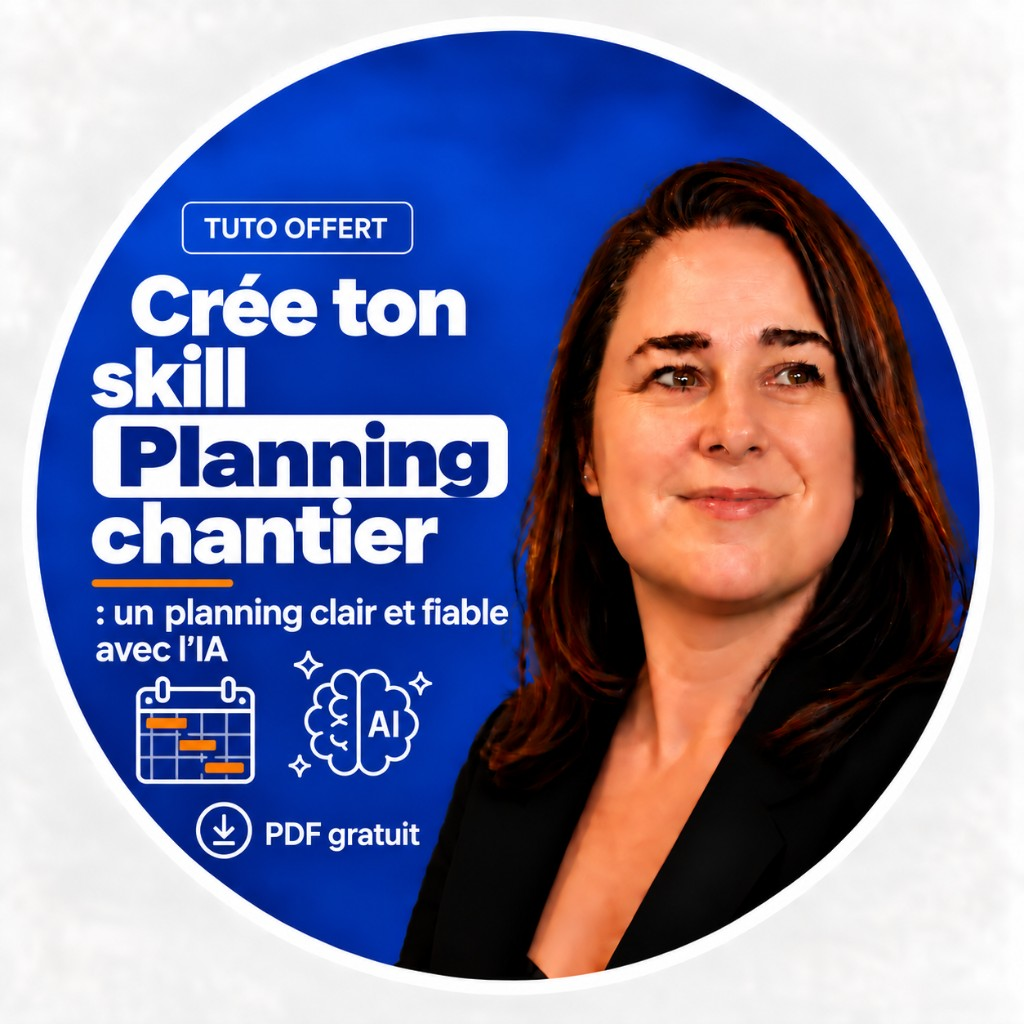
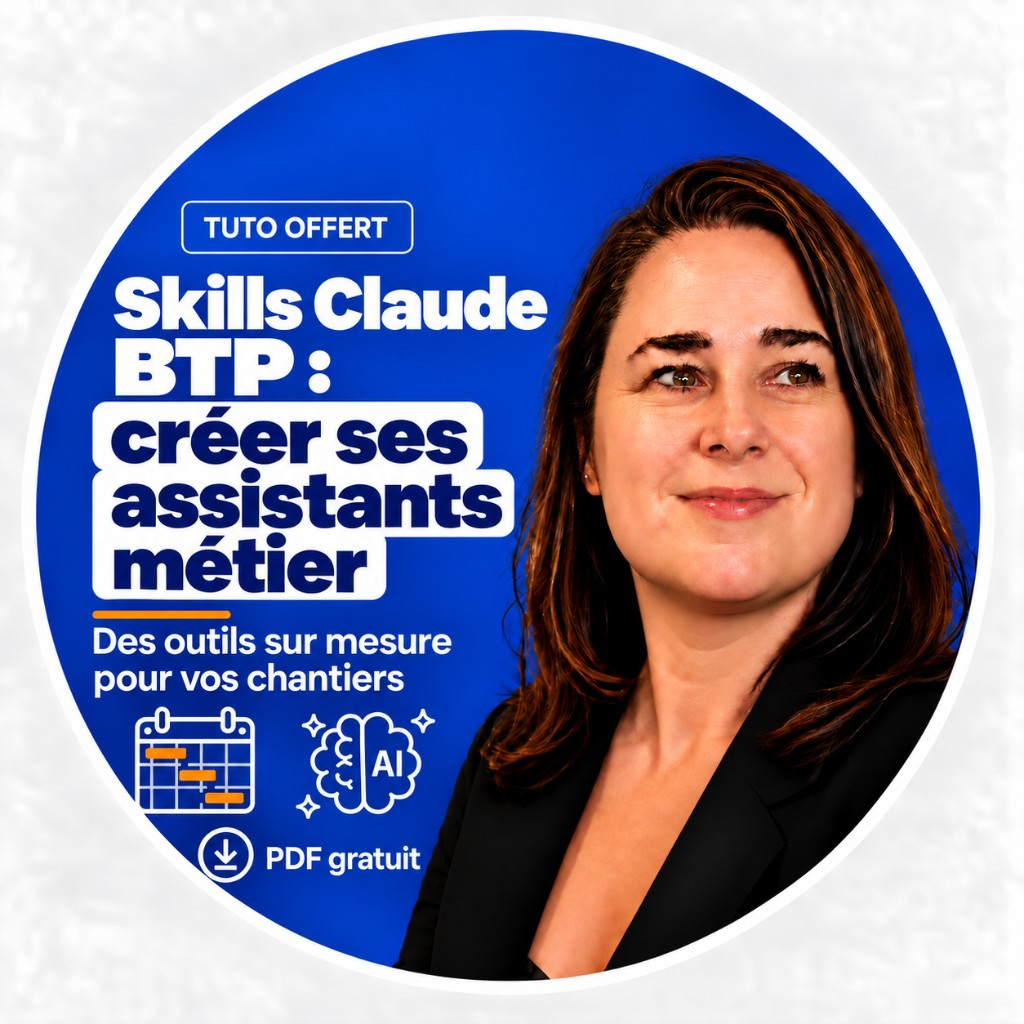
Actualise les miniatures Skills, compacte le hero accueil et complète le sitemap.
Visuels tuto Claude/ChatGPT alignés sur la charte ; logos partenaires intégrés au fold ; routes statiques core au sitemap ; liens legacy normalisés dans les articles générés.

diff --git a/components/landing/AccueilHeroSection.tsx b/components/landing/AccueilHeroSection.tsx
@@ -1,5 +1,6 @@
 import Link from 'next/link';
 import { AccueilHeroVideo } from '@/components/landing/AccueilHeroVideo';
+import { AccueilPreuveSocialeCompact } from '@/components/landing/accueil/AccueilPreuveSocialeCompact';
 import { Badge } from '@/components/ui/Badge';
 import { getAccueilHeroModalitesLine } from '@/lib/accueil-config';
 import { CTA_RDV_LABEL } from '@/lib/cta-rdv-label';
@@ -11,38 +12,38 @@ import {
 } from '@/lib/ofc-interaction-classes';
 import { OFC_SEC } from '@/lib/ofc-section-classes';
 
-/** Hero accueil — promesse claire, double CTA orientation, vidéo large. */
+/** Hero accueil — promesse claire, double CTA orientation, vidéo large, logos dans le fold. */
 export function AccueilHeroSection() {
   return (
-    <section className={`${OFC_SEC.hero} relative overflow-hidden !py-6 md:!py-8 lg:!py-10`}>
+    <section className={`${OFC_SEC.hero} relative overflow-hidden !py-5 md:!py-6 lg:!py-7`}>
       <div className="relative mx-auto max-w-[80rem] px-4 sm:px-6 lg:px-8">
         <div className="accueil-hero-fold">
           <div className="accueil-hero-content order-1 min-w-0">
             <Badge>Formatrice IA spécialisée BTP</Badge>
-            <h1 className="mt-3 max-w-3xl font-display text-[clamp(1.5rem,1.15rem+1.35vw,2rem)] font-extrabold leading-[1.2] tracking-tight text-ofc-ink text-balance">
+            <h1 className="mt-2 max-w-3xl font-display text-[clamp(1.45rem,1.1rem+1.25vw,1.95rem)] font-extrabold leading-[1.18] tracking-tight text-ofc-ink text-balance">
               Formations IA pour les professionnels du BTP en Île-de-France
             </h1>
-            <p className={`${OFC_TYPE_LEAD} mt-3 max-w-xl text-base leading-[1.6] text-ofc-ink md:text-lg`}>
+            <p className={`${OFC_TYPE_LEAD} mt-2 max-w-xl text-[0.9375rem] leading-[1.55] text-ofc-ink md:text-base`}>
               Devis, DCE, appels d&apos;offres et suivi de chantier&nbsp;: utilisez ChatGPT et
               Claude sur vos documents réels.
             </p>
-            <div className="mt-5 flex flex-col gap-3 sm:flex-row sm:flex-wrap">
+            <div className="mt-4 flex flex-col gap-2.5 sm:flex-row sm:flex-wrap">
               <Link
                 href={LINKS.parcoursMetiers}
                 data-cta="parcours-metier"
-                className={`${OFC_CTA_PRIMARY} inline-flex min-h-11 w-full items-center justify-center px-6 py-3 sm:w-auto`}
+                className={`${OFC_CTA_PRIMARY} inline-flex min-h-11 w-full items-center justify-center px-5 py-2.5 text-sm sm:w-auto md:px-6 md:py-3 md:text-base`}
               >
                 Choisir mon parcours métier
               </Link>
               <Link
                 href={LINKS.formations}
                 data-cta="formations-ia"
-                className={`${OFC_CTA_SECONDARY} inline-flex min-h-11 w-full items-center justify-center px-6 py-3 sm:w-auto`}
+                className={`${OFC_CTA_SECONDARY} inline-flex min-h-11 w-full items-center justify-center px-5 py-2.5 text-sm sm:w-auto md:px-6 md:py-3 md:text-base`}
               >
                 Voir les formations IA
               </Link>
             </div>
-            <p className="mt-4 max-w-xl text-sm leading-relaxed text-ofc-ink-muted">
+            <p className="mt-3 max-w-xl text-xs leading-relaxed text-ofc-ink-muted md:text-sm">
               <Link
                 href={`${LINKS.prendreRdv}?src=accueil-hero`}
                 data-cta="rdv"
@@ -55,12 +56,14 @@ export function AccueilHeroSection() {
             </p>
           </div>
 
-          <aside className="accueil-hero-aside order-2 mt-6 w-full min-w-0 md:order-none md:mt-0">
-            <div className="overflow-hidden rounded-ofc-card bg-white p-1 shadow-ofc-sm ring-1 ring-ofc-border">
-              <AccueilHeroVideo className="aspect-[4/3] h-auto w-full rounded-[calc(var(--radius-ofc-card)-2px)] object-cover" />
+          <aside className="accueil-hero-aside order-2 mt-5 w-full min-w-0 md:order-none md:mt-0">
+            <div className="accueil-hero-aside-inner overflow-hidden rounded-ofc-card bg-white p-1 shadow-ofc-sm ring-1 ring-ofc-border">
+              <AccueilHeroVideo className="accueil-hero-video-media aspect-[4/3] h-auto w-full rounded-[calc(var(--radius-ofc-card)-2px)] object-cover" />
             </div>
           </aside>
         </div>
+
+        <AccueilPreuveSocialeCompact variant="embedded" />
       </div>
     </section>
   );

diff --git a/components/landing/accueil/AccueilPreuveSocialeCompact.tsx b/components/landing/accueil/AccueilPreuveSocialeCompact.tsx
@@ -4,18 +4,35 @@ import { Section } from '@/components/ui/Section';
 import { ACCUEIL_LOGOS_PARTENAIRES, getAccueilHeroReassuranceLine } from '@/lib/accueil-config';
 import { PARTNER_LOGO_BAND_CELL } from '@/lib/client-logos';
 
+type AccueilPreuveSocialeCompactProps = {
+  /** Intégré au hero (sans section séparée, logos plus compacts). */
+  variant?: 'section' | 'embedded';
+};
+
+const LOGO_CELL_EMBEDDED = 'relative h-10 w-[8.25rem] shrink-0 overflow-hidden md:h-11 md:w-[9rem]';
+
 /** Bande preuve sociale légère — logos monochromes, sans carousel inaccessible. */
-export function AccueilPreuveSocialeCompact() {
-  return (
-    <Section tone="white" aria-labelledby="accueil-preuve-sociale" className="!py-4 md:!py-5">
+export function AccueilPreuveSocialeCompact({ variant = 'section' }: AccueilPreuveSocialeCompactProps) {
+  const cellClass = variant === 'embedded' ? LOGO_CELL_EMBEDDED : PARTNER_LOGO_BAND_CELL.className;
+
+  const bandeau = (
+    <>
       <p
         id="accueil-preuve-sociale"
-        className="text-center font-display text-sm font-semibold tracking-tight text-ofc-ink-muted md:text-base"
+        className={
+          variant === 'embedded'
+            ? 'text-center font-display text-xs font-semibold tracking-tight text-ofc-ink-muted md:text-sm'
+            : 'text-center font-display text-sm font-semibold tracking-tight text-ofc-ink-muted md:text-base'
+        }
       >
         Ils me font confiance
       </p>
       <ul
-        className="mt-4 flex flex-wrap items-center justify-center gap-x-6 gap-y-4 md:mt-5 md:gap-x-10"
+        className={
+          variant === 'embedded'
+            ? 'mt-2 flex flex-wrap items-center justify-center gap-x-5 gap-y-3 md:mt-3 md:gap-x-8'
+            : 'mt-4 flex flex-wrap items-center justify-center gap-x-6 gap-y-4 md:mt-5 md:gap-x-10'
+        }
         aria-label="Logos partenaires et clients"
       >
         {ACCUEIL_LOGOS_PARTENAIRES.map((logo) => (
@@ -25,7 +42,7 @@ export function AccueilPreuveSocialeCompact() {
               title={logo.linkTitle ?? `Site officiel ${logo.name}`}
               className="group block rounded-lg focus-visible:outline focus-visible:outline-2 focus-visible:outline-offset-2 focus-visible:outline-[#377CF3]"
             >
-              <div className={`${PARTNER_LOGO_BAND_CELL.className} grayscale transition group-hover:grayscale-0`}>
+              <div className={`${cellClass} grayscale transition group-hover:grayscale-0`}>
                 <Image
                   src={logo.src}
                   alt={logo.alt}
@@ -40,6 +57,23 @@ export function AccueilPreuveSocialeCompact() {
           </li>
         ))}
       </ul>
+    </>
+  );
+
+  if (variant === 'embedded') {
+    return (
+      <div
+        className="accueil-hero-logos mt-5 border-t border-ofc-border/80 pt-4 md:mt-6 md:pt-5"
+        aria-labelledby="accueil-preuve-sociale"
+      >
+        {bandeau}
+      </div>
+    );
+  }
+
+  return (
+    <Section tone="white" aria-labelledby="accueil-preuve-sociale" className="!py-4 md:!py-5">
+      {bandeau}
       <p className="mx-auto mt-4 max-w-2xl text-center text-xs leading-relaxed text-ofc-ink-muted md:mt-5 md:text-sm">
         {getAccueilHeroReassuranceLine()}
       </p>

diff --git a/lib/blog.ts b/lib/blog.ts
@@ -1965,6 +1965,34 @@ export const BLOG_ARTICLES: BlogArticle[] = [
   },
 ];
 
+/** Anciennes URL RDV / liens legacy dans les JSON Media Machine — normalisés à la lecture. */
+function normalizeLegacyPathsInText(text: string): string {
+  return text
+    .replaceAll('/prendre-rendez-vous', LINKS.prendreRdv)
+    .replaceAll('/formation-ia-artisans-btp', LINKS.formationIaDirigeantPmeBtp);
+}
+
+function normalizeGeneratedArticleSections(
+  sections: BlogArticle['sections']
+): BlogArticle['sections'] {
+  return sections.map((section) => {
+    const { content, formationHref, ...rest } = section;
+    const next: BlogArticle['sections'][number] = { ...rest, content };
+
+    if (typeof content === 'string') {
+      next.content = normalizeLegacyPathsInText(content);
+    } else if (Array.isArray(content) && content.length > 0 && typeof content[0] === 'string') {
+      next.content = (content as string[]).map((line) => normalizeLegacyPathsInText(line));
+    }
+
+    if (formationHref) {
+      next.formationHref = normalizeLegacyPathsInText(formationHref);
+    }
+
+    return next;
+  });
+}
+
 function loadGeneratedArticles(): BlogArticle[] {
   const dir = join(process.cwd(), 'content', 'generated');
   if (!existsSync(dir)) return [];
@@ -1975,13 +2003,14 @@ function loadGeneratedArticles(): BlogArticle[] {
     return files.map((f) => {
       const raw = readFileSync(join(dir, f), 'utf-8');
       const a = JSON.parse(raw) as BlogArticle & { internalLinks?: unknown };
+      const sections = normalizeGeneratedArticleSections(a.sections ?? []);
       return {
         slug: a.slug,
         title: a.title,
-        description: a.description,
+        description: normalizeLegacyPathsInText(a.description),
         date: a.date,
         keywords: a.keywords ?? [],
-        sections: a.sections ?? [],
+        sections,
         relatedSlugs: a.relatedSlugs ?? [], ...(a.seoTitle ? { seoTitle: a.seoTitle } : {}), ...(a.dateModified ? { dateModified: a.dateModified } : {}), ...(a.faq?.length ? { faq: a.faq } : {}), ...(a.coverImage ? { coverImage: a.coverImage } : {}),
       };
     });

diff --git a/app/globals.css b/app/globals.css
@@ -283,14 +283,48 @@
     display: grid;
     grid-template-columns: minmax(0, 45fr) minmax(0, 55fr);
     gap: 1.25rem 1.75rem;
-    align-items: center;
+    align-items: start;
   }
 }
 
 @media (min-width: 1024px) {
   .accueil-hero-fold {
     gap: 1.5rem 2rem;
-    align-items: center;
+  }
+}
+
+/* Viewports bas (ex. 1366×768) : plafond optique sans recadrer le poster */
+/* Bandeau promo : une ligne sur viewports bas (fold accueil) */
+@media (max-height: 820px) {
+  .promo-offre-2027 > div {
+    padding-top: 0.375rem;
+    padding-bottom: 0.375rem;
+  }
+
+  .promo-offre-2027 p.min-w-0.text-sm.leading-snug {
+    display: none;
+  }
+}
+
+@media (min-width: 768px) and (max-height: 920px) {
+  .accueil-hero-aside-inner {
+    max-height: min(28vh, 240px);
+  }
+
+  .accueil-hero-aside-inner .accueil-hero-video-media,
+  .accueil-hero-aside-inner .aspect-\[4\/3\] {
+    max-height: min(28vh, 240px);
+    width: 100%;
+    height: auto;
+    aspect-ratio: 4 / 3;
+    object-fit: contain;
+  }
+
+  .accueil-hero-content .ofc-type-lead {
+    display: -webkit-box;
+    -webkit-line-clamp: 2;
+    -webkit-box-orient: vertical;
+    overflow: hidden;
   }
 }
 

diff --git a/app/sitemap.ts b/app/sitemap.ts
@@ -10,6 +10,7 @@ import {
   getSitemapDepartementPaths,
   getSitemapIaTaskPaths,
   getSitemapMetierLandingPaths,
+  SITEMAP_CORE_STATIC_PATHS,
 } from '@/lib/sitemap-public-routes';
 import {
   SITEMAP_FORMATION_CATALOG_PATHS,
@@ -209,6 +210,12 @@ export default async function sitemap(): Promise<MetadataRoute.Sitemap> {
     lastModified: resolveSitemapLastModified(path),
   }));
 
+  /** Hub formateurs, parcours métiers, intra… (source `SITEMAP_CORE_STATIC_PATHS`, dédupliqué avec tier1). */
+  const coreStatic: MetadataRoute.Sitemap = SITEMAP_CORE_STATIC_PATHS.map((path) => ({
+    url: path === '/' ? baseUrl : `${baseUrl}${path}`,
+    lastModified: resolveSitemapLastModified(path),
+  }));
+
   const formationCatalogPriority: MetadataRoute.Sitemap = SITEMAP_FORMATION_CATALOG_PATHS.map(
     (path) => ({
       url: `${baseUrl}${path}`,
@@ -251,6 +258,7 @@ export default async function sitemap(): Promise<MetadataRoute.Sitemap> {
 
   const merged = dedupeByUrl([
     ...tier1Static,
+    ...coreStatic,
     ...formationCatalogPriority,
     ...formationCatalog,
     ...iaTaskPages,

diff --git a/app/page.tsx b/app/page.tsx
@@ -1,7 +1,6 @@
 import type { Metadata } from 'next';
 import { preload } from 'react-dom';
 import { AccueilHeroSection } from '@/components/landing/AccueilHeroSection';
-import { AccueilPreuveSocialeCompact } from '@/components/landing/accueil/AccueilPreuveSocialeCompact';
 import { AccueilOffreCatalogueSection } from '@/components/landing/accueil/AccueilOffreCatalogueSection';
 import { AccueilMethodeResultatsSection } from '@/components/landing/accueil/AccueilMethodeResultatsSection';
 import { AccueilFinancementSection } from '@/components/landing/accueil/AccueilFinancementSection';
@@ -82,7 +81,6 @@ export default function HomePage() {
   return (
     <div>
       <AccueilHeroSection />
-      <AccueilPreuveSocialeCompact />
       <AccueilOffreCatalogueSection />
       <EvenementAoBtpPromoEncart placement="accueil" />
       <AccueilMethodeResultatsSection />

diff --git a/lib/ressources-miniatures.ts b/lib/ressources-miniatures.ts
@@ -33,15 +33,15 @@ export const RESSOURCES_MINIATURES = {
   },
   skillsClaudeBtp: {
     src: `${BASE}/miniature-skills-claude-btp.jpg`,
-    alt: 'Laure Olivié — 5 skills Claude gratuits pour le BTP, tuto offert formation IA',
+    alt: 'Tuto offert Skills Claude BTP — créer ses assistants métier, PDF gratuit formation IA bâtiment',
     width: 1024,
     height: 1024,
   },
   skillsChatgptBtp: {
     src: '/images/tutoriel-skills-chatgpt-btp-laure-olivie.webp',
-    alt: 'Tutoriel Skills ChatGPT BTP — 6 modèles ZIP pour le bâtiment et les TP',
-    width: 893,
-    height: 1263,
+    alt: 'Tuto offert Skills ChatGPT BTP — créer ses assistants métier, PDF gratuit formation IA bâtiment',
+    width: 1024,
+    height: 1024,
   },
   guideChargeAffaires: {
     src: `${BASE}/miniature-guide-charge-affaires.jpg`,

diff --git a/lib/skills-claude-btp-content.ts b/lib/skills-claude-btp-content.ts
@@ -111,12 +111,12 @@ export const SKILLS_CLAUDE_BTP_CARDS: readonly SkillClaudeBtpCard[] = [
 ] as const;
 
 export const SKILLS_CLAUDE_BTP_IMAGE = {
-  src: '/images/creer-skill-claude-btp.webp',
-  alt: 'Tuto Claude : créer un Skill — étapes Personnalisation, Compétences et import pour le BTP',
-  width: 682,
+  src: '/images/ressources/miniatures/miniature-skills-claude-btp.jpg',
+  alt: 'Tuto offert Skills Claude BTP — créer ses assistants métier, PDF gratuit formation IA bâtiment',
+  width: 1024,
   height: 1024,
   caption:
-    'Infographie : créer, importer et tester un Skill Claude (session formation assistants IA BTP).',
+    'Tuto offert — Skills Claude BTP : créer ses assistants métier (exemples ZIP et PDF gratuit).',
 } as const;
 
 export const SKILLS_CLAUDE_BTP_INSTALL_STEPS = [

diff --git a/lib/skills-chatgpt-btp-content.ts b/lib/skills-chatgpt-btp-content.ts
@@ -199,10 +199,11 @@ export const SKILLS_CHATGPT_DOWNLOADS = {
 
 export const SKILLS_CHATGPT_BTP_IMAGE = {
   src: '/images/tutoriel-skills-chatgpt-btp-laure-olivie.webp',
-  alt: 'Couverture du tutoriel Crée ton skill sur ChatGPT de Laure Olivié',
-  width: 893,
-  height: 1263,
-  caption: 'Tutoriel PDF — créer un Skill ChatGPT pour une tâche BTP récurrente.',
+  alt: 'Tuto offert Skills ChatGPT BTP — créer ses assistants métier, PDF gratuit formation IA bâtiment',
+  width: 1024,
+  height: 1024,
+  caption:
+    'Tuto offert — Skills ChatGPT BTP : créer ses assistants métier (tutoriel PDF et 6 modèles ZIP).',
 } as const;
 
 export const SKILLS_CHATGPT_PERSONNALISER = [

diff --git a/lib/sitemap-last-modified.ts b/lib/sitemap-last-modified.ts
@@ -249,7 +249,7 @@ const ROUTE_SOURCE_FILES: Record<string, readonly string[]> = {
     'app/skills-claude-btp/page.tsx',
     'lib/skills-claude-btp-content.ts',
     'public/skills',
-    'public/images/creer-skill-claude-btp.webp',
+    'public/images/ressources/miniatures/miniature-skills-claude-btp.jpg',
   ],
   '/formation-ia-intra-entreprise-btp': [
     'app/formation-ia-intra-entreprise-btp/page.tsx',
